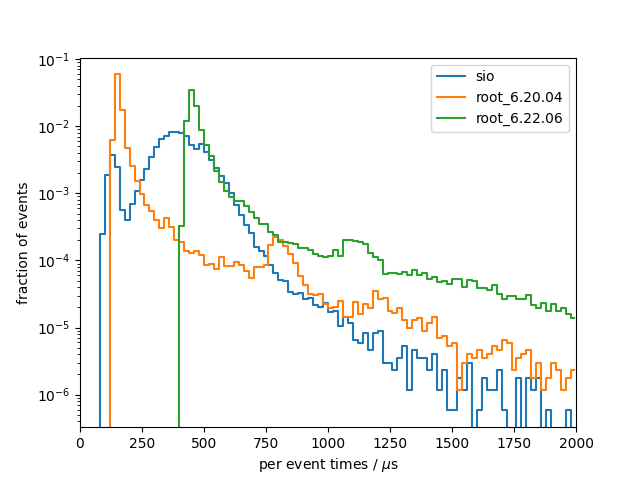
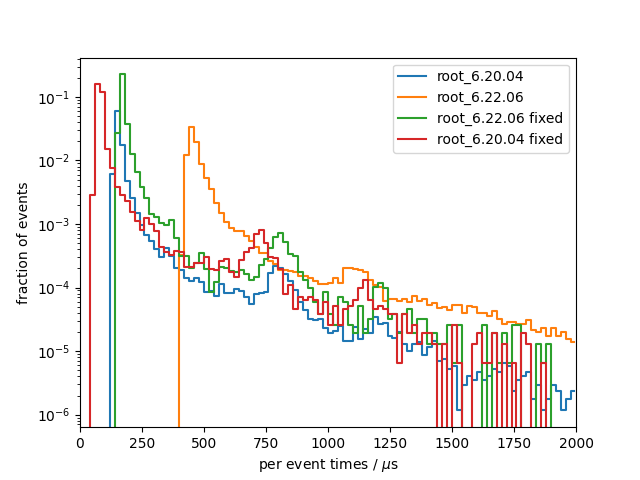
Update report with fixes

diff --git a/results/k4SimDelphes/compare_root_versions/README.md b/results/k4SimDelphes/compare_root_versions/README.md
@@ -7,28 +7,6 @@
 
 ## write
 
-### sio
-Results from 10 benchmark runs with 17143 events each
-
-#### I/O times
-|                          |   min    |   mean   |   max    |
-|--------------------------|----------|----------|----------|
-| total [s]                |    6.572 |    6.707 |    7.055 |
-#### Setup times
-|                          |   min    |   mean   |   max    |
-|--------------------------|----------|----------|----------|
-| total setup [ms]         |    3.444 |    3.884 |    7.040 |
-| constructor [ms]         |    2.044 |    2.456 |    5.644 |
-| finish [ms]              |    1.375 |    1.417 |    1.489 |
-#### Per event times
-|                          |   min    |   mean   |   max    |
-|--------------------------|----------|----------|----------|
-| median [us]              |    386.0 |    392.0 |    408.1 |
-| min [us]                 |    84.42 |    85.60 |    86.53 |
-| max [us]                 |     2276 |     2947 |     3922 |
-| 90 percentile [us]       |    522.8 |    535.5 |    568.0 |
-| 99 percentile [us]       |    665.8 |    707.2 |    828.4 |
-
 ### root_6.20.04
 Results from 10 benchmark runs with 17143 events each
 
@@ -73,35 +51,55 @@ Results from 10 benchmark runs with 17143 events each
 | 90 percentile [us]       |    504.8 |    636.1 |     1135 |
 | 99 percentile [us]       |     2453 |     2644 |     3165 |
 
+### root_6.22.06 fixed
+Results from 3 benchmark runs with 17143 events each
+
+#### I/O times
+|                          |   min    |   mean   |   max    |
+|--------------------------|----------|----------|----------|
+| total [s]                |    5.339 |    5.377 |    5.406 |
+#### Setup times
+|                          |   min    |   mean   |   max    |
+|--------------------------|----------|----------|----------|
+| total setup [ms]         |    456.2 |    466.2 |    475.6 |
+| constructor [ms]         |    31.02 |    31.62 |    32.71 |
+| finish [ms]              |    425.2 |    434.6 |    444.4 |
+#### Per event times
+|                          |   min    |   mean   |   max    |
+|--------------------------|----------|----------|----------|
+| median [us]              |    170.5 |    172.5 |    174.5 |
+| min [us]                 |    146.1 |    147.0 |    147.5 |
+| max [us]                 | 6.38e+05 | 6.46e+05 | 6.55e+05 |
+| 90 percentile [us]       |    210.2 |    215.1 |    219.3 |
+| 99 percentile [us]       |     2151 |     2180 |     2220 |
+
+### root_6.20.04 fixed
+Results from 3 benchmark runs with 17143 events each
+
+#### I/O times
+|                          |   min    |   mean   |   max    |
+|--------------------------|----------|----------|----------|
+| total [s]                |    3.841 |    3.958 |    4.104 |
+#### Setup times
+|                          |   min    |   mean   |   max    |
+|--------------------------|----------|----------|----------|
+| total setup [ms]         |    558.9 |    562.3 |    567.0 |
+| constructor [ms]         |    28.94 |    30.98 |    34.23 |
+| finish [ms]              |    526.8 |    531.3 |    537.2 |
+#### Per event times
+|                          |   min    |   mean   |   max    |
+|--------------------------|----------|----------|----------|
+| median [us]              |    77.25 |    80.09 |    81.92 |
+| min [us]                 |    53.34 |    57.31 |    60.05 |
+| max [us]                 | 6.47e+05 | 6.74e+05 | 7.06e+05 |
+| 90 percentile [us]       |    116.2 |    126.8 |    144.7 |
+| 99 percentile [us]       |     2088 |     2108 |     2133 |
+
 ### per-event comparison plot
 
 ![per event distribution for write](per_event_write.png)
 
 ## read
-
-### sio
-Results from 10 benchmark runs with 17143 events each
-
-#### I/O times
-|                          |   min    |   mean   |   max    |
-|--------------------------|----------|----------|----------|
-| total [s]                |    1.964 |    2.034 |    2.211 |
-#### Setup times
-|                          |   min    |   mean   |   max    |
-|--------------------------|----------|----------|----------|
-| total setup [ms]         |    2.370 |    2.483 |    2.658 |
-| close file [us]          |    6.663 |    8.105 |    9.663 |
-| open file [ms]           |    0.390 |    0.409 |    0.460 |
-| constructor [us]         |     1971 |     2064 |     2188 |
-| read collection ids [us] |    0.155 |    0.243 |    0.725 |
-#### Per event times
-|                          |   min    |   mean   |   max    |
-|--------------------------|----------|----------|----------|
-| median [us]              |    116.6 |    119.3 |    126.1 |
-| min [us]                 |    32.69 |    33.60 |    34.26 |
-| max [us]                 |     1040 |     1435 |     2007 |
-| 90 percentile [us]       |    146.2 |    151.7 |    167.4 |
-| 99 percentile [us]       |    185.2 |    212.2 |    270.9 |
 
 ### root_6.20.04
 Results from 10 benchmark runs with 17143 events each
@@ -114,8 +112,8 @@ Results from 10 benchmark runs with 17143 events each
 |                          |   min    |   mean   |   max    |
 |--------------------------|----------|----------|----------|
 | total setup [ms]         |    414.2 |    423.5 |    451.7 |
-| close file [us]          |     7316 |     8415 | 1.12e+04 |
 | open file [ms]           |    406.5 |    415.1 |    444.0 |
+| close file [us]          |     7316 |     8415 | 1.12e+04 |
 | constructor [us]         |    0.254 |    0.482 |    1.042 |
 | read collection ids [us] |    0.376 |    0.394 |    0.427 |
 #### Per event times
@@ -133,23 +131,71 @@ Results from 10 benchmark runs with 17143 events each
 #### I/O times
 |                          |   min    |   mean   |   max    |
 |--------------------------|----------|----------|----------|
-| total [s]                |    9.845 |    10.21 |    10.62 |
+| total [s]                |    9.758 |    10.15 |    10.62 |
 #### Setup times
 |                          |   min    |   mean   |   max    |
 |--------------------------|----------|----------|----------|
-| total setup [ms]         |    435.0 |    468.6 |    541.7 |
-| close file [us]          |     6786 |     8817 | 1.45e+04 |
-| open file [ms]           |    426.8 |    459.8 |    534.4 |
-| constructor [us]         |    0.320 |    0.383 |    0.700 |
-| read collection ids [us] |    0.397 |    0.557 |    1.473 |
+| total setup [ms]         |    420.1 |    456.5 |    492.7 |
+| open file [ms]           |    414.5 |    447.8 |    479.1 |
+| close file [us]          |     5565 |     8651 | 1.45e+04 |
+| constructor [us]         |    0.310 |    0.381 |    0.700 |
+| read collection ids [us] |    0.371 |    0.551 |    1.473 |
 #### Per event times
 |                          |   min    |   mean   |   max    |
 |--------------------------|----------|----------|----------|
-| median [us]              |    499.9 |    512.8 |    535.1 |
-| min [us]                 |    414.6 |    423.7 |    439.5 |
+| median [us]              |    497.9 |    511.6 |    535.1 |
+| min [us]                 |    410.0 |    422.7 |    439.5 |
 | max [us]                 | 2.94e+05 | 3.04e+05 | 3.49e+05 |
-| 90 percentile [us]       |    559.5 |    581.8 |    618.1 |
-| 99 percentile [us]       |     1118 |     1217 |     1335 |
+| 90 percentile [us]       |    552.0 |    577.5 |    618.1 |
+| 99 percentile [us]       |     1094 |     1196 |     1335 |
+
+### root_6.22.06 fixed
+Results from 3 benchmark runs with 17143 events each
+
+#### I/O times
+|                          |   min    |   mean   |   max    |
+|--------------------------|----------|----------|----------|
+| total [s]                |    4.752 |    4.788 |    4.848 |
+#### Setup times
+|                          |   min    |   mean   |   max    |
+|--------------------------|----------|----------|----------|
+| total setup [ms]         |    425.9 |    430.1 |    434.3 |
+| open file [ms]           |    415.9 |    419.8 |    423.7 |
+| close file [us]          |     9933 | 1.03e+04 | 1.06e+04 |
+| constructor [us]         | 3.80e-02 | 4.40e-02 | 4.80e-02 |
+| read collection ids [us] |    0.151 |    0.171 |    0.185 |
+#### Per event times
+|                          |   min    |   mean   |   max    |
+|--------------------------|----------|----------|----------|
+| median [us]              |    209.2 |    210.8 |    213.6 |
+| min [us]                 |    144.4 |    146.2 |    148.0 |
+| max [us]                 | 2.90e+05 | 2.91e+05 | 2.93e+05 |
+| 90 percentile [us]       |    248.7 |    251.2 |    256.1 |
+| 99 percentile [us]       |    773.4 |    783.3 |    791.0 |
+
+### root_6.20.04 fixed
+Results from 3 benchmark runs with 17143 events each
+
+#### I/O times
+|                          |   min    |   mean   |   max    |
+|--------------------------|----------|----------|----------|
+| total [s]                |    3.106 |    3.189 |    3.237 |
+#### Setup times
+|                          |   min    |   mean   |   max    |
+|--------------------------|----------|----------|----------|
+| total setup [ms]         |    405.8 |    414.6 |    421.7 |
+| open file [ms]           |    396.9 |    406.1 |    413.3 |
+| close file [us]          |     8385 |     8573 |     8815 |
+| constructor [us]         | 4.10e-02 | 4.73e-02 | 5.40e-02 |
+| read collection ids [us] |    0.151 |    0.158 |    0.167 |
+#### Per event times
+|                          |   min    |   mean   |   max    |
+|--------------------------|----------|----------|----------|
+| median [us]              |    116.1 |    120.6 |    123.7 |
+| min [us]                 |    52.99 |    56.15 |    58.27 |
+| max [us]                 | 2.80e+05 | 2.84e+05 | 2.86e+05 |
+| 90 percentile [us]       |    152.3 |    156.4 |    158.6 |
+| 99 percentile [us]       |    704.0 |    716.1 |    725.3 |
 
 ### per-event comparison plot
 
